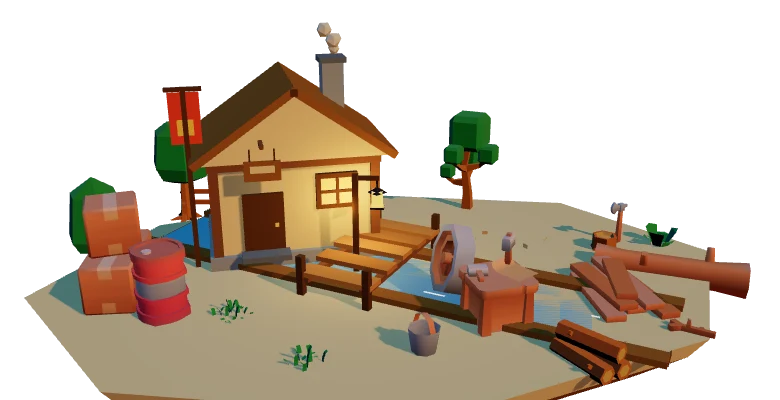
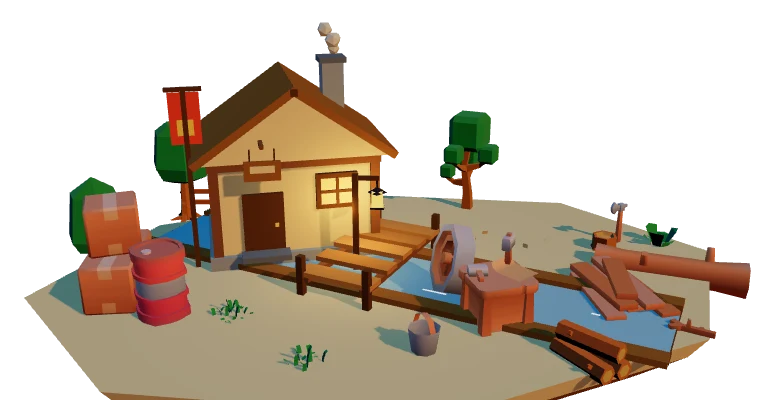
stop the stream and the path stone flickering against the ground
The stream's water and trench sat flush with the plateau top, and the flat
path stone in the camp lay flush with the sand, so each pair of surfaces
fought for the same depth and flickered as the strip leaned. The stream now
sits a hair above the ground and the contact shadow plane, and the stone is
gone.

diff --git a/src/scene/props/Stream.tsx b/src/scene/props/Stream.tsx
@@ -54,18 +54,19 @@ export function Stream({
           <meshStandardMaterial color="#a06a34" flatShading roughness={1} />
         </mesh>
       ))}
-      {/* The trench and the water in it */}
-      <mesh position={[0, -0.04, 0]}>
+      {/* The trench and the water in it, their tops a hair above the plateau:
+          flush with it, the ground and the water flicker through each other. */}
+      <mesh position={[0, -0.025, 0]}>
         <boxGeometry args={[length, 0.08, width]} />
         <meshStandardMaterial color="#7a4d31" flatShading roughness={1} />
       </mesh>
-      <mesh position={[0, -0.03, 0]} receiveShadow>
+      <mesh position={[0, -0.01, 0]} receiveShadow>
         <boxGeometry args={[length - 0.02, 0.06, width - 0.06]} />
         <meshStandardMaterial color="#8fc3e6" flatShading roughness={0.6} />
       </mesh>
       <group ref={group}>
         {glints.map((x) => (
-          <mesh key={x} position={[x, 0.004, (x % 0.7) * 0.4]} rotation={[-Math.PI / 2, 0, 0]}>
+          <mesh key={x} position={[x, 0.026, (x % 0.7) * 0.4]} rotation={[-Math.PI / 2, 0, 0]}>
             <planeGeometry args={[0.2, 0.03]} />
             <meshStandardMaterial
               color="#ffffff"

diff --git a/src/scene/scenes/SkillsScene.tsx b/src/scene/scenes/SkillsScene.tsx
@@ -93,7 +93,6 @@ const still = [
   { url: MODELS.grassLeafs, position: [1.0, 0, 1.6], scale: 1.0, rotation: 0.6 },
   { url: MODELS.grassLeafs, position: [-1.9, 0, 1.4], scale: 0.9, rotation: 2.2 },
   { url: MODELS.plantFlat, position: [2.7, duneHeight(2.7, 1.3), 1.3], scale: 0.9, rotation: 2.6 },
-  { url: MODELS.pathStone, position: [-0.35, 0, 1.45], scale: 0.7, rotation: 0.4 },
 ] as const
 
 /**
